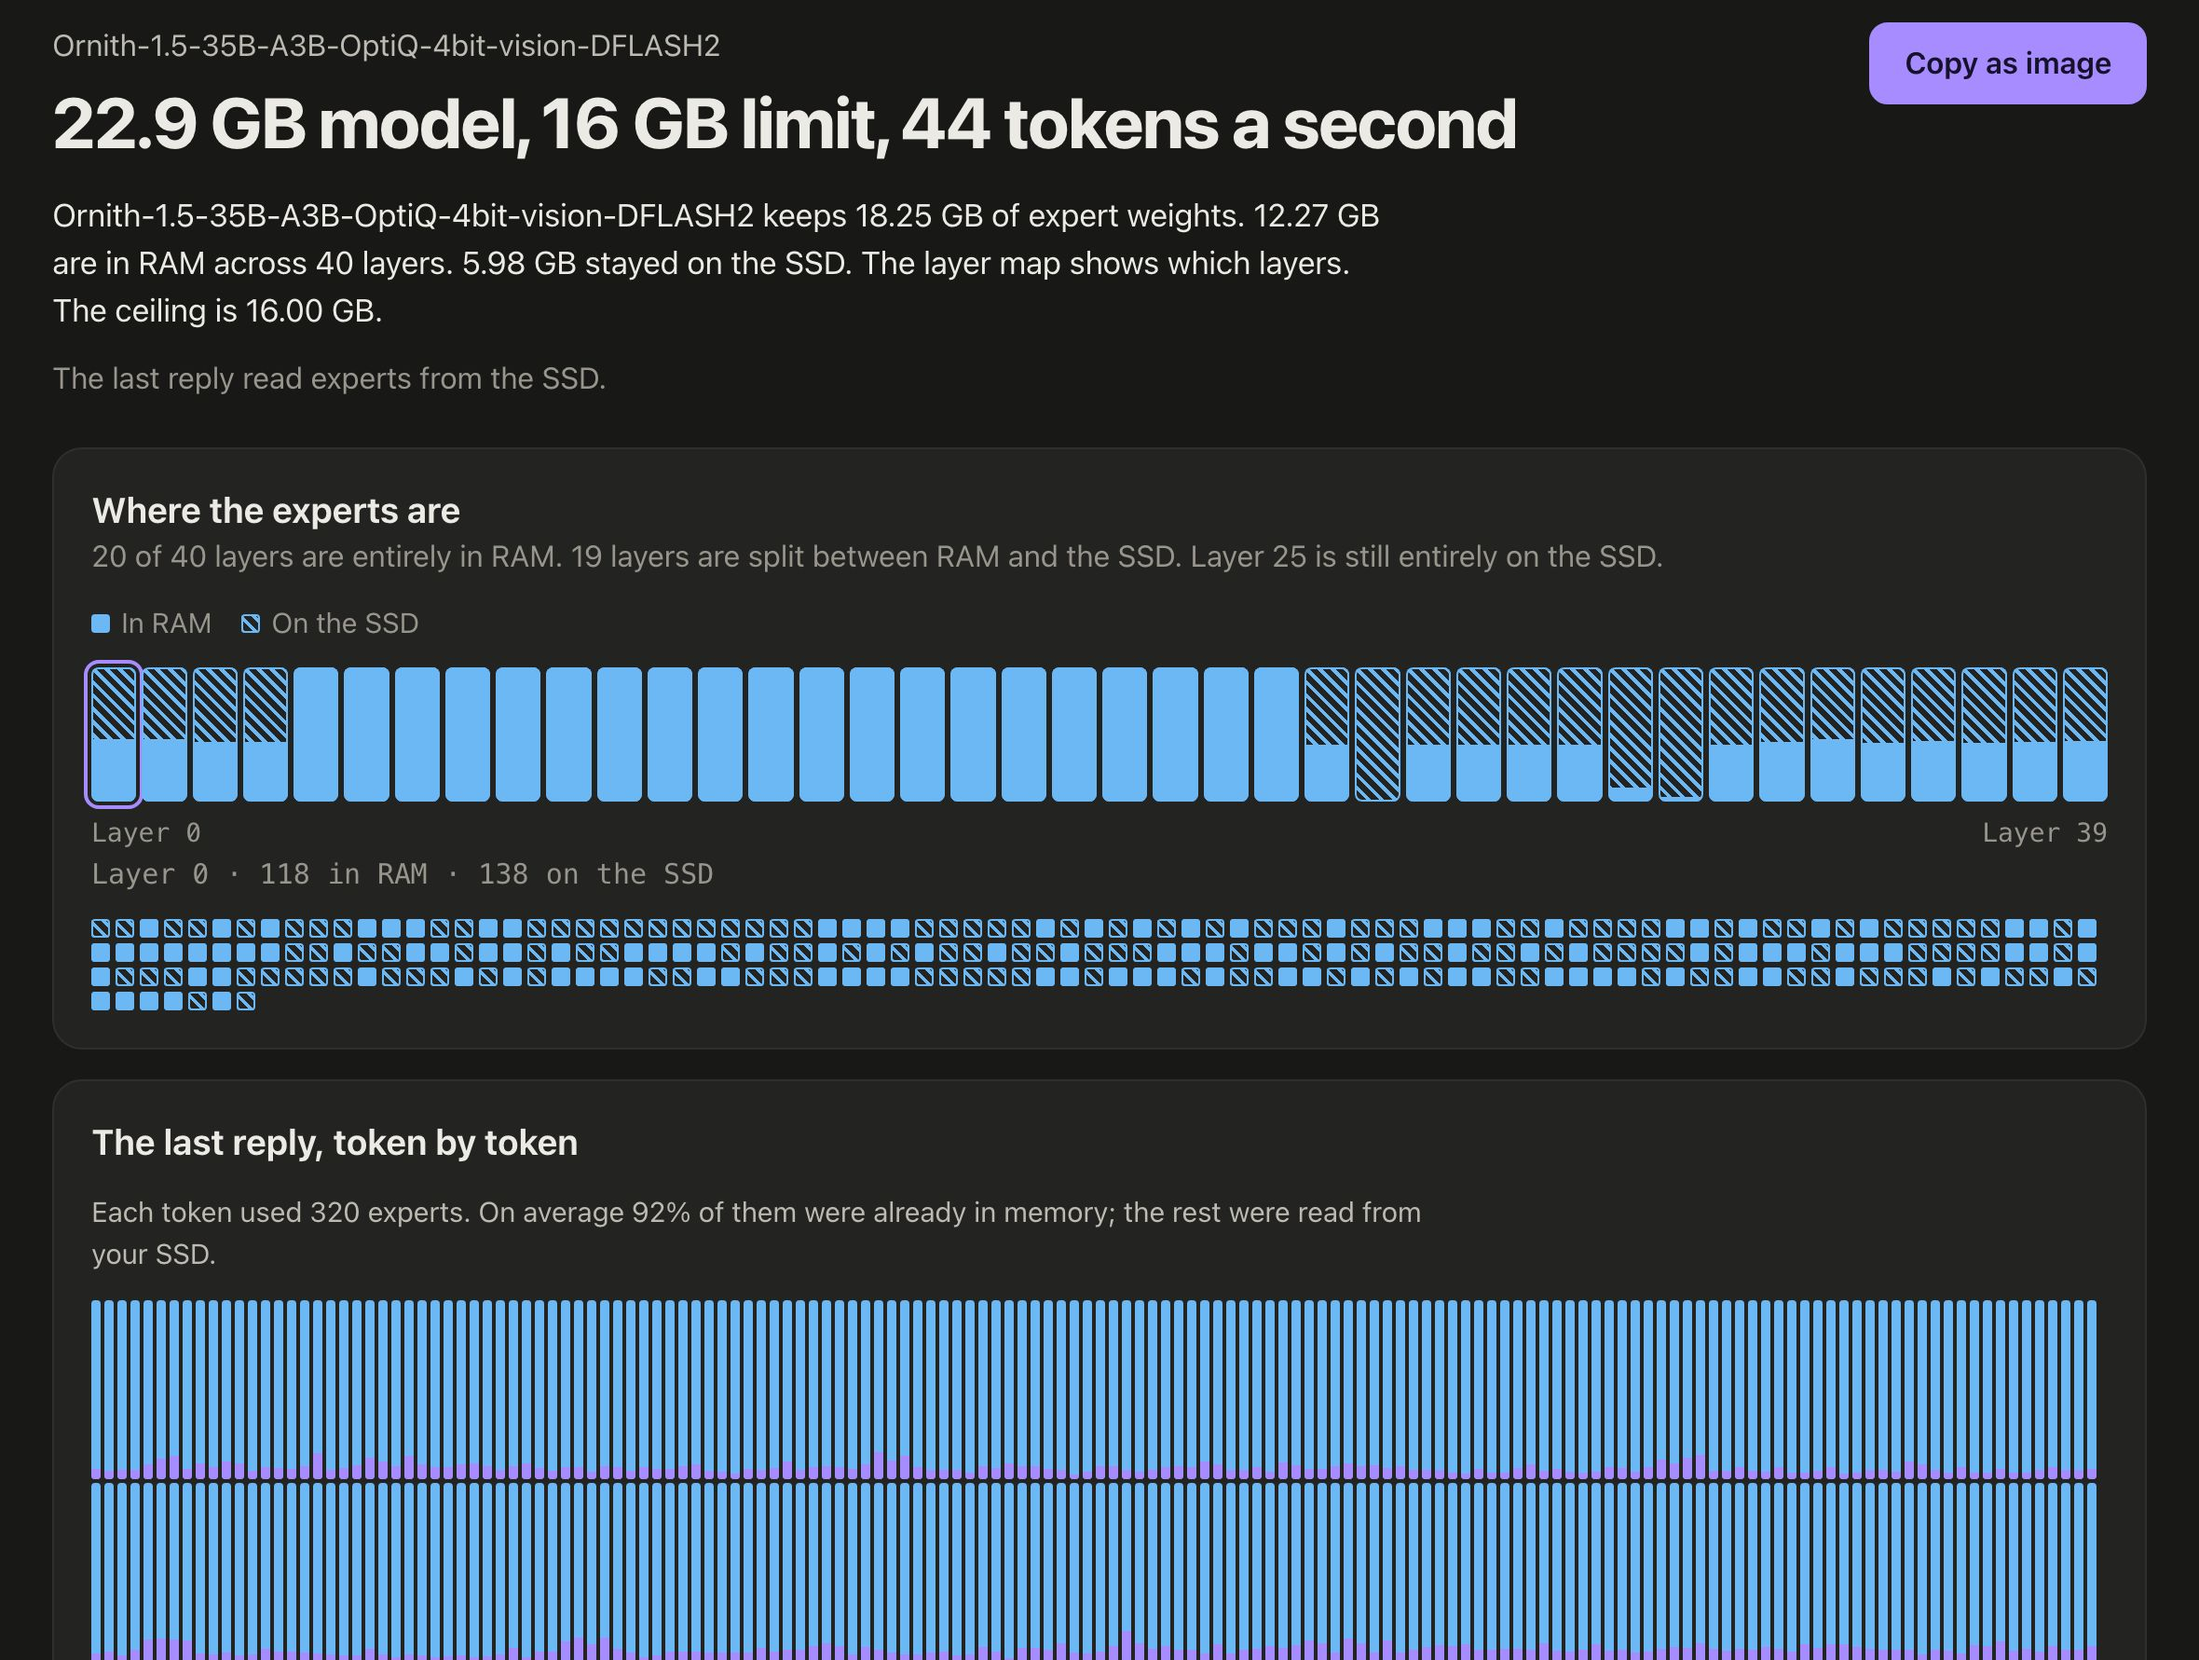
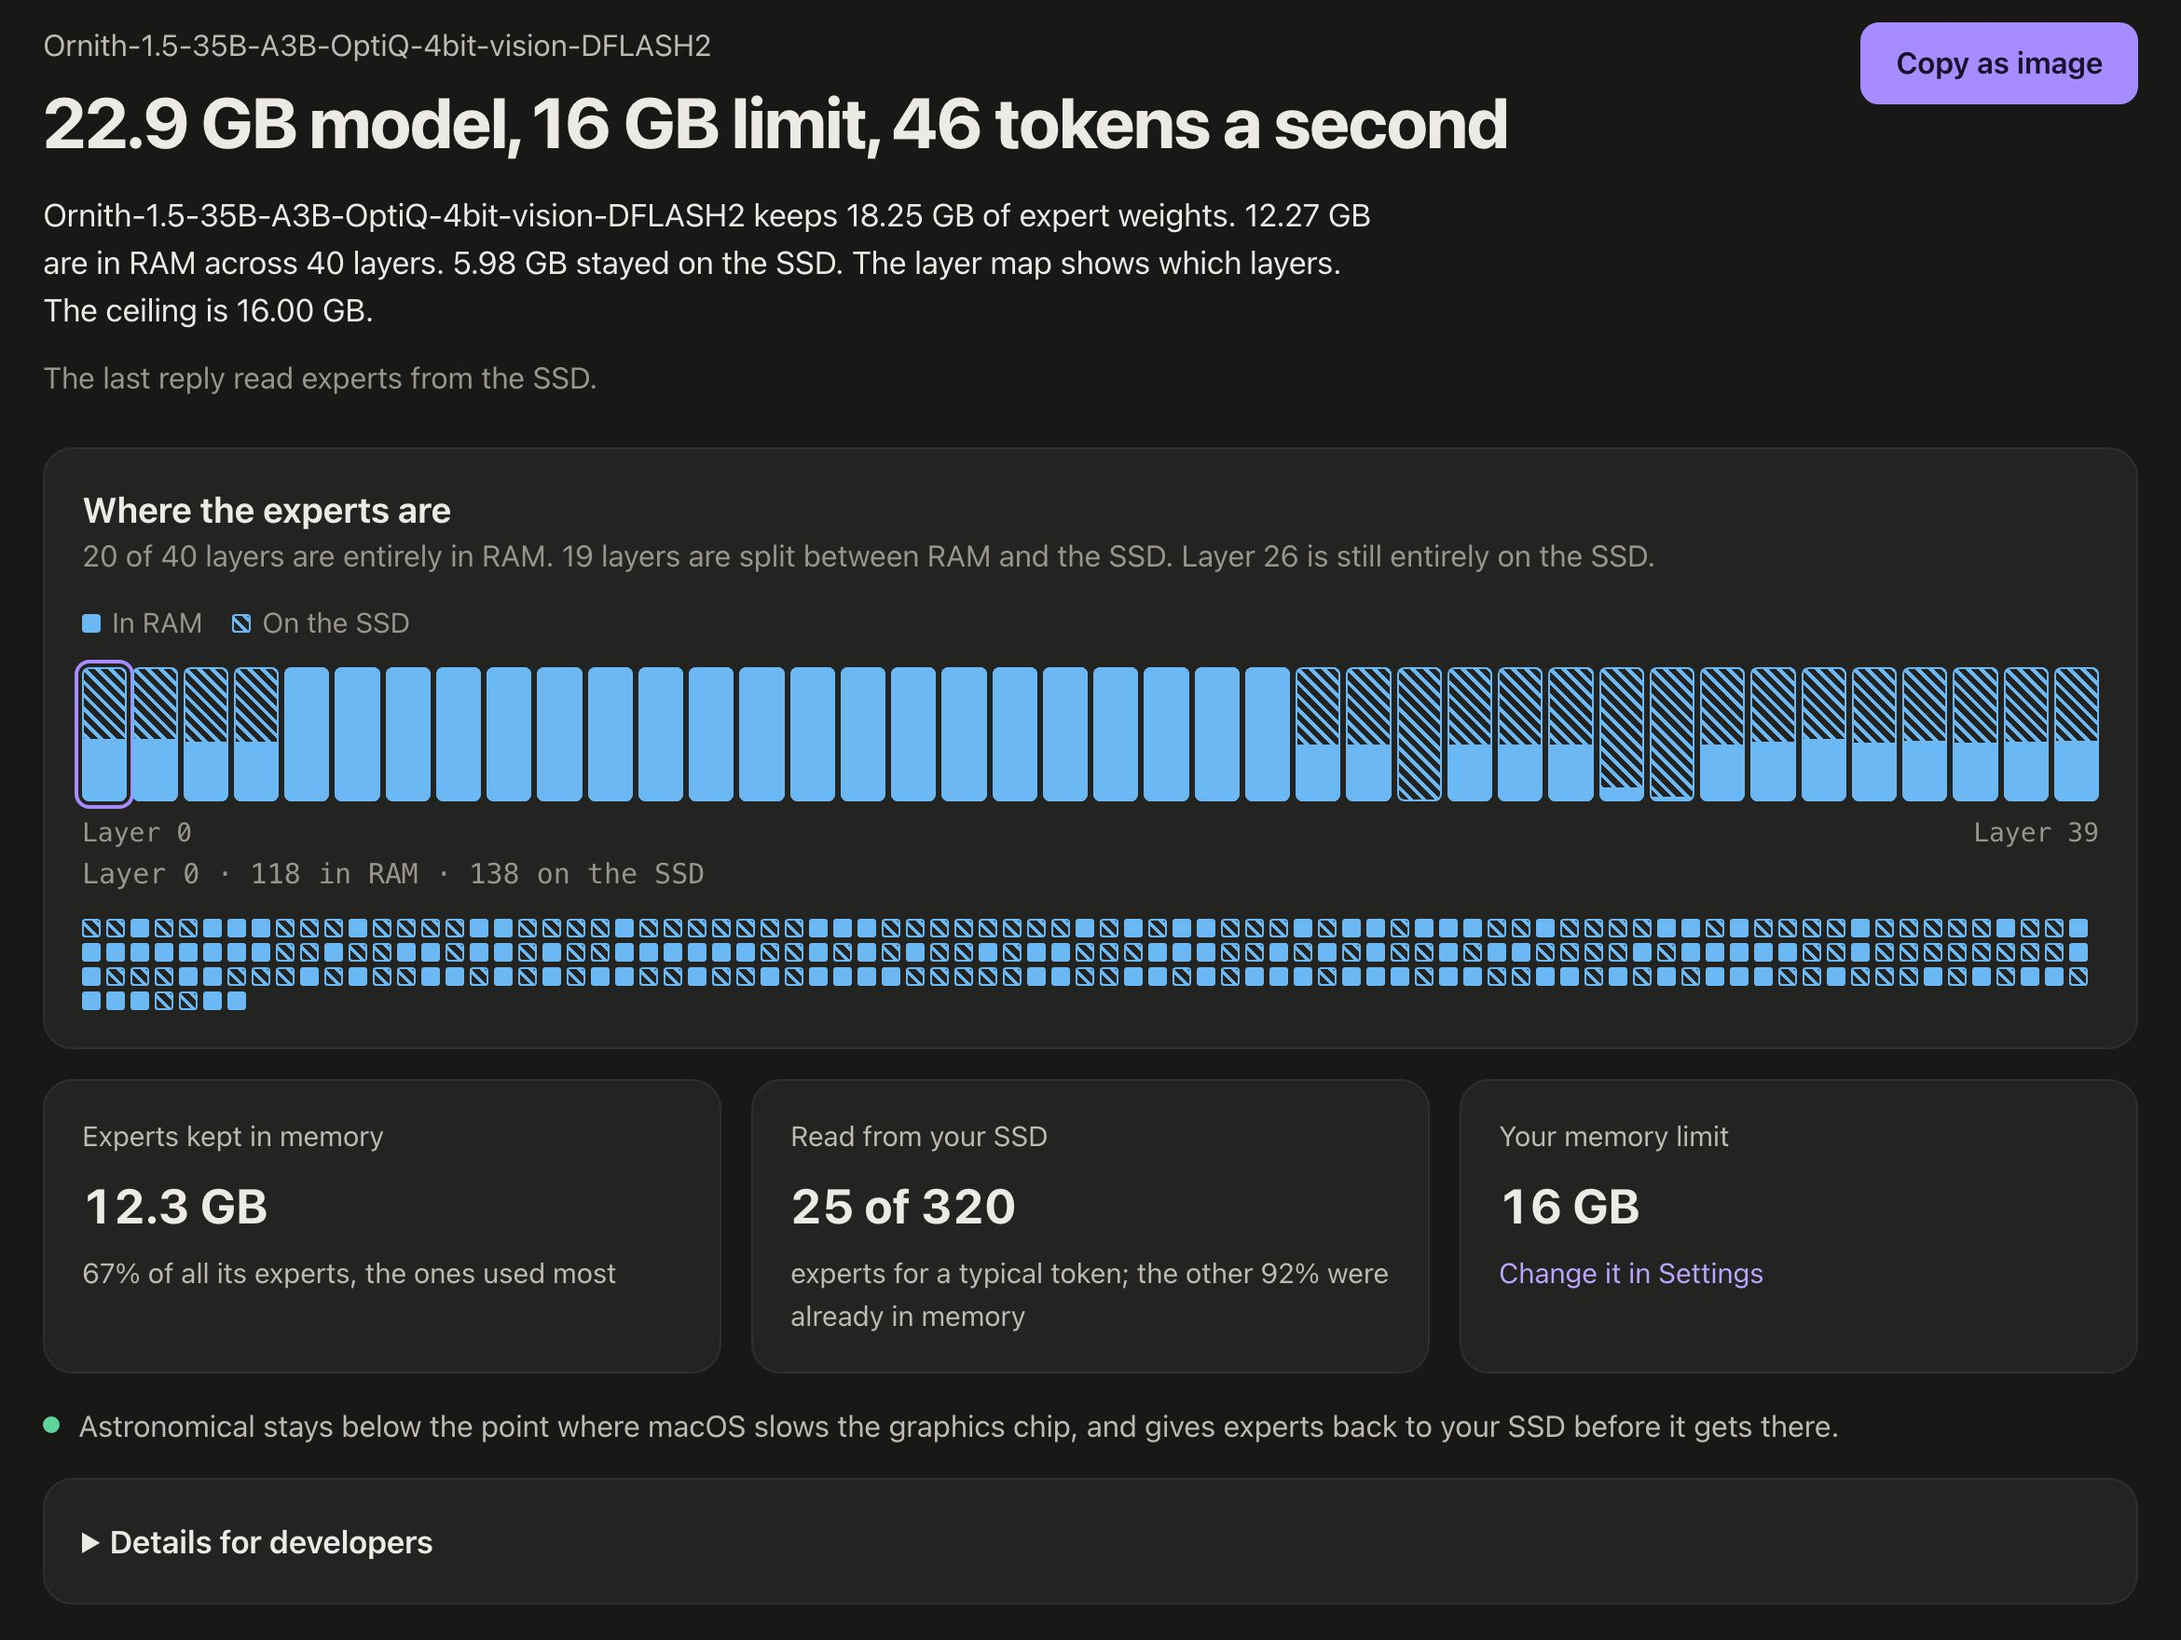
Show Under the hood without the token chart on the home page (#2751)
The Observatory screenshots and figures come from captures of the page
after #2753: 39 tokens a second with 78% of each token's experts already
in memory at 8 GB, and 46 tokens a second with 92% at 16 GB.

diff --git a/site/index.html b/site/index.html
@@ -135,16 +135,16 @@
               <div><dt>22.9 GB</dt><dd>the model on disk</dd></div>
               <div><dt>8 GB</dt><dd>the memory it was allowed</dd></div>
               <div><dt class="proof-accent">39</dt><dd>tokens a second while writing</dd></div>
-              <div><dt>81%</dt><dd>of the experts each token needed were already in memory</dd></div>
+              <div><dt>78%</dt><dd>of the experts each token needed were already in memory</dd></div>
             </dl>
           </div>
 
           <figure class="window-shot">
             <div class="window-frame">
               <div class="window-bar" aria-hidden="true"><i></i><i></i><i></i><span>Observatory · Under the hood</span></div>
-              <img src="./assets/home/observatory-under-the-hood-8gb.jpg" width="2360" height="2630" loading="lazy" alt="Observatory's Under the hood page after a reply: 22.9 GB model, 8 GB limit, 39 tokens a second. A map of 40 layers shows a small part of each in memory and the rest on the SSD, and a chart of the last reply shows each token mostly in blue, experts already in memory, with a thin violet band read from the SSD. Below: 4.6 GB of experts kept in memory, 62 of 320 experts read from the SSD for a typical token, an 8 GB memory limit.">
+              <img src="./assets/home/observatory-under-the-hood-8gb.jpg" width="2340" height="1760" loading="lazy" alt="Observatory\'s Under the hood page after a reply: 22.9 GB model, 8 GB limit, 39 tokens a second. A map of 40 layers shows a small part of each in memory and the rest on the SSD. Below it: 4.6 GB of experts kept in memory, 25% of all of them; 71 of 320 experts read from the SSD for a typical token, the other 78% already in memory; and an 8 GB memory limit.">
             </div>
-            <figcaption><strong>Every token, accounted for.</strong> Under the hood draws the last reply one column per token: blue for experts already in memory, violet for the few read from your SSD. With 8 GB only a quarter of the experts fit, yet four in five of the ones each token needs are already there.</figcaption>
+            <figcaption><strong>See where every expert lives.</strong> Each of the 40 layers keeps its busiest experts in memory, solid blue, and leaves the rest on your SSD. With 8 GB only a quarter of the experts fit, yet more than three in four of the ones each token needs are already there.</figcaption>
           </figure>
 
           <div class="shot-pair">
@@ -153,8 +153,8 @@
               <figcaption><strong>Stays inside the limit you set.</strong> 7.6 of 8 GB in use in the middle of a reply, and macOS reports memory pressure as normal.</figcaption>
             </figure>
             <figure class="window-shot">
-              <div class="window-frame"><img src="./assets/home/observatory-under-the-hood-16gb.jpg" width="2360" height="1781" loading="lazy" alt="Observatory's Under the hood page with a 16 GB limit: 22.9 GB model, 16 GB limit, 44 tokens a second. In the map of 40 layers about two thirds of each layer is now in memory."></div>
-              <figcaption><strong>Give it more, it keeps more.</strong> With 16 GB two thirds of the experts stay in memory, and the same reply is written at 44 tokens a second.</figcaption>
+              <div class="window-frame"><img src="./assets/home/observatory-under-the-hood-16gb.jpg" width="2340" height="1760" loading="lazy" alt="Observatory\'s Under the hood page with a 16 GB limit: 22.9 GB model, 16 GB limit, 46 tokens a second. In the map of 40 layers about two thirds of each layer is now in memory: 12.3 GB of experts kept, and 25 of 320 read from the SSD for a typical token."></div>
+              <figcaption><strong>Give it more, it keeps more.</strong> With 16 GB two thirds of the experts stay in memory, and the same reply is written at 46 tokens a second.</figcaption>
             </figure>
           </div>
 
@@ -165,14 +165,14 @@
                 <h3>A 16 GB Mac, giving it 8 GB</h3>
                 <dl>
                   <div><dt class="proof-accent">39</dt><dd>tokens a second</dd></div>
-                  <div><dt>81%</dt><dd>already in memory</dd></div>
+                  <div><dt>78%</dt><dd>already in memory</dd></div>
                   <div><dt>4.6 GB</dt><dd>of experts kept</dd></div>
                 </dl>
               </div>
               <div class="compare-card">
                 <h3>A 32 GB Mac, giving it 16 GB</h3>
                 <dl>
-                  <div><dt class="proof-accent">44</dt><dd>tokens a second</dd></div>
+                  <div><dt class="proof-accent">46</dt><dd>tokens a second</dd></div>
                   <div><dt>92%</dt><dd>already in memory</dd></div>
                   <div><dt>12.3 GB</dt><dd>of experts kept</dd></div>
                 </dl>
